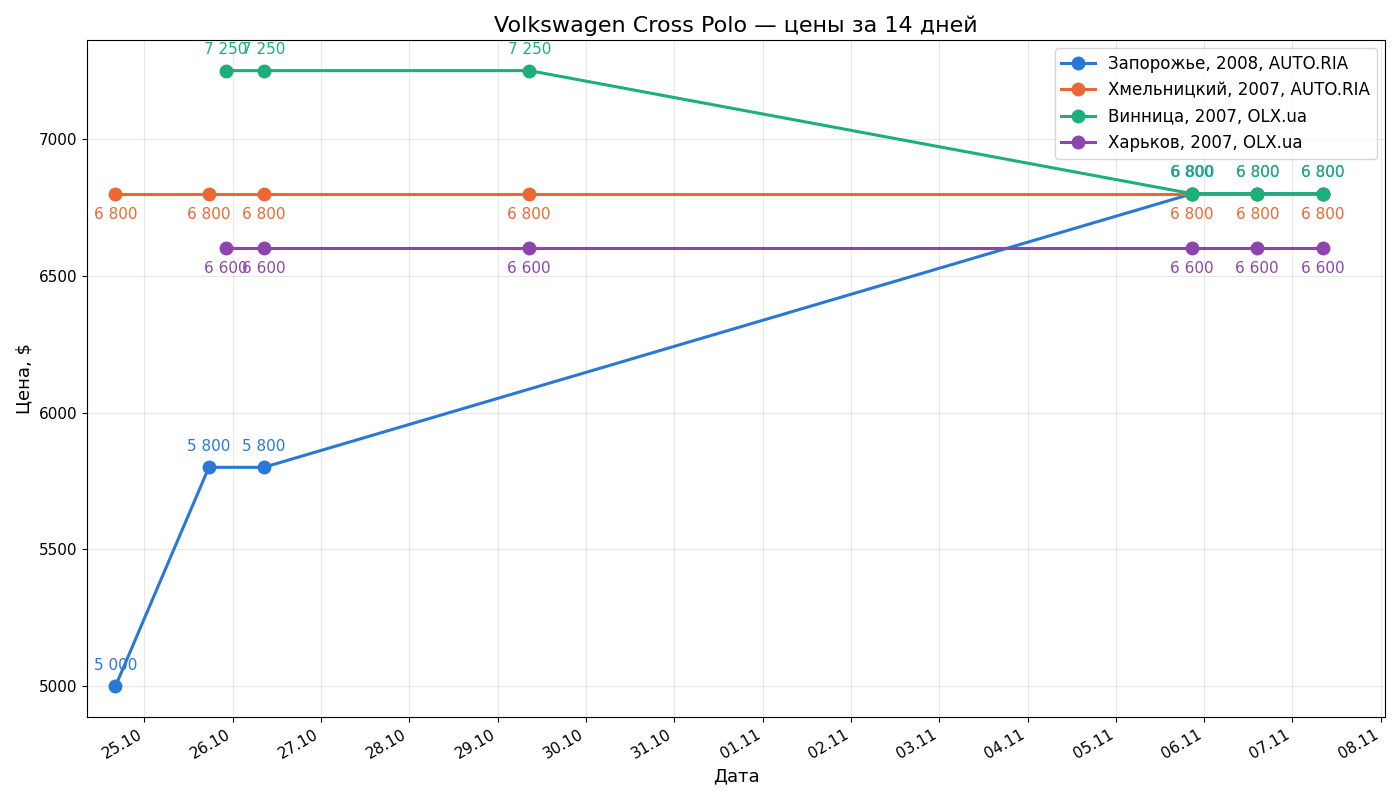
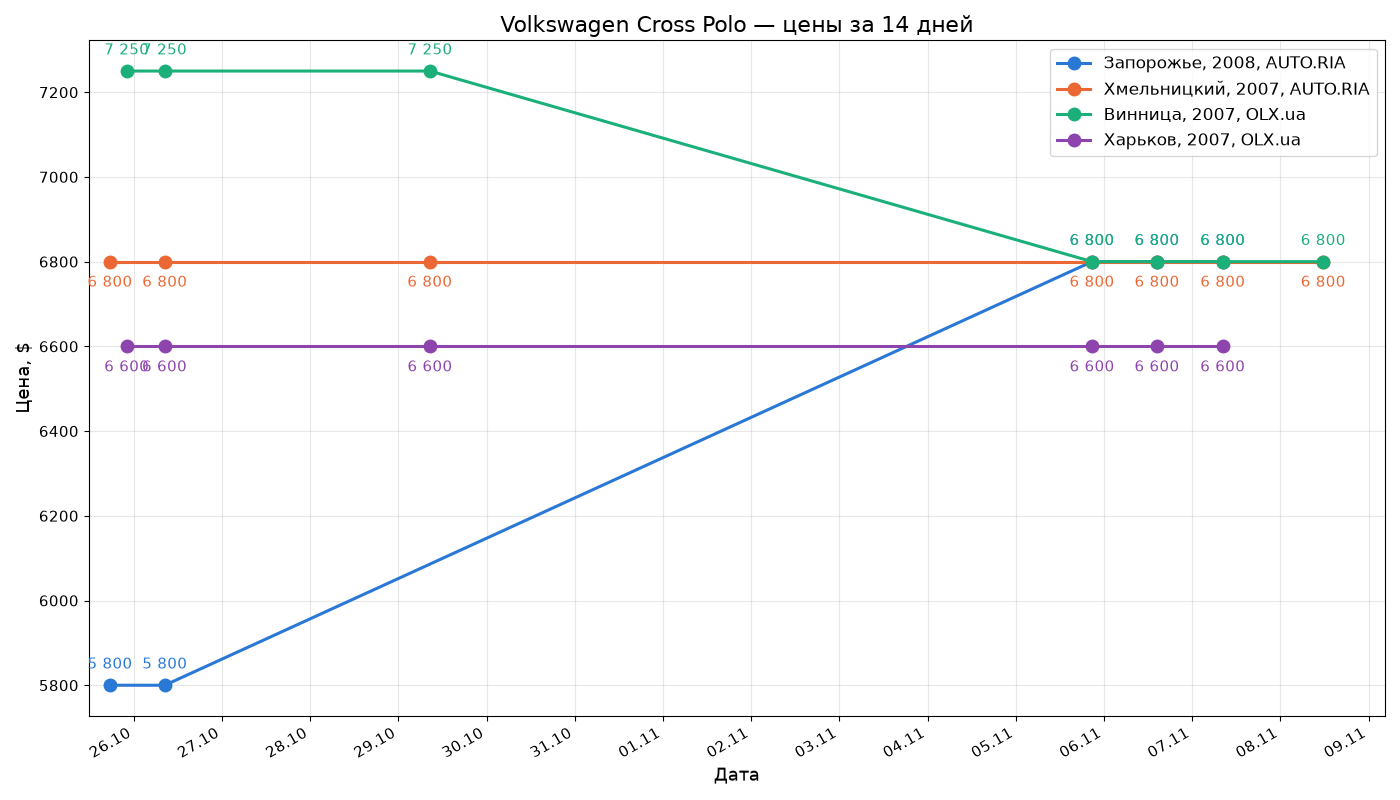
Update data for 2026-11-08, add .venv run instructions

diff --git a/cross-polo-summary.md b/cross-polo-summary.md
@@ -2,6 +2,8 @@
 
 | Дата и время (UTC) | Источник | Модель | Год | Госномер / ID | Л.с. | Объем двигателя | Пробег | Цена, $ | Город | Ссылка |
 |---|---|---|---|---|---|---|---|---|---|---|
+| 2026-11-08 11:41 | AUTO.RIA | Volkswagen Cross Polo | 2007 | AT 9057 HM | 139 | 1.39 л | 263 тыс. км | 6 800 | Хмельницкий | https://auto.ria.com/auto_volkswagen_cross-polo_40502266.html |
+| 2026-11-08 11:41 | OLX.ua | Volkswagen Cross Polo | 2007 | ID11cNUF | — | 1.4 л | 134 тыс. км | 6 800 | Винница | https://www.olx.ua/d/uk/obyavlenie/volkswagen-cross-polo-ID11cNUF.html |
 | 2026-11-07 08:21 | AUTO.RIA | Volkswagen Cross Polo 1.6 AT | 2008 | AP 9712 EH | 105 | 1.6 л | 180 тыс. км | 6 800 | Запорожье | https://auto.ria.com/auto_volkswagen_cross-polo_40645951.html |
 | 2026-11-07 08:21 | AUTO.RIA | Volkswagen Cross Polo | 2007 | AT 9057 HM | 139 | 1.39 л | 263 тыс. км | 6 800 | Хмельницкий | https://auto.ria.com/auto_volkswagen_cross-polo_40502266.html |
 | 2026-11-07 08:20 | OLX.ua | Volkswagen Polo Cross | 2007 | ID11ru93 | — | 1.4 л | 131 тыс. км | 6 600 | Харьков | https://www.olx.ua/d/uk/obyavlenie/prodam-volkswagen-polo-cross-ID11ru93.html |

diff --git a/CLAUDE.md b/CLAUDE.md
@@ -8,11 +8,11 @@
 - `cross-polo-summary.md` — общая сводка, новые строки сверху, сортировка: дата ↓, затем AUTO.RIA выше OLX.ua.
 - `cross-polo-2weeks.png` — график цен за 14 дней.
 - `report.json` — результат `update_summary.py` (добавленные строки и их класс).
-- `update_summary.py` — слияние в сводку + классификация + график.
+- `update_summary.py` — слияние в сводку + классификация + график. Запуск: `.venv/bin/python update_summary.py` (в `.venv` стоит matplotlib; создать: `python3.14 -m venv .venv && .venv/bin/pip install matplotlib`).
 
 ## Конвейер (скиллы в `.claude/skills/`)
 1. `carsale-load-olx`, `carsale-load-autoria` — загрузка страниц поиска в md-файлы.
-2. `carsale-update-summary` — `python3 update_summary.py`.
+2. `carsale-update-summary` — `.venv/bin/python update_summary.py`.
 3. `carsale-price-chart` — график (делает тот же скрипт, если сводка изменилась).
 4. `carsale-email-report` — письмо.
 

diff --git a/.claude/skills/carsale-update-summary/SKILL.md b/.claude/skills/carsale-update-summary/SKILL.md
@@ -5,7 +5,7 @@ description: Merge the latest-day data from the AUTO.RIA and OLX.ua Cross Polo f
 
 # CarSale: обновление сводки
 
-Рабочая папка: ~/ClaudeProjects/CarSale. Готовая реализация: `python3 update_summary.py` (пишет `report.json`).
+Рабочая папка: ~/ClaudeProjects/CarSale. Готовая реализация: `.venv/bin/python update_summary.py` (пишет `report.json`).
 
 ## Файлы (точные имена)
 - Источники: `cross-polo_avto-riа-com.md` (AUTO.RIA, буква «а» в «riа» кириллическая), `cross-polo_olx-ua.md` (OLX.ua). Если имя не совпало — найти по маске `cross-polo_*.md` и сообщить, какой файл взят.

diff --git a/README.md b/README.md
@@ -1,3 +1,3 @@
 # CarSale
 Мониторинг Volkswagen Cross Polo (OLX.ua + AUTO.RIA). Контекст и правила — в `CLAUDE.md`, промпты задач — в `.claude/skills/`.
-Запуск обновления сводки: `python3 update_summary.py`.
+Запуск обновления сводки: `.venv/bin/python update_summary.py`.
